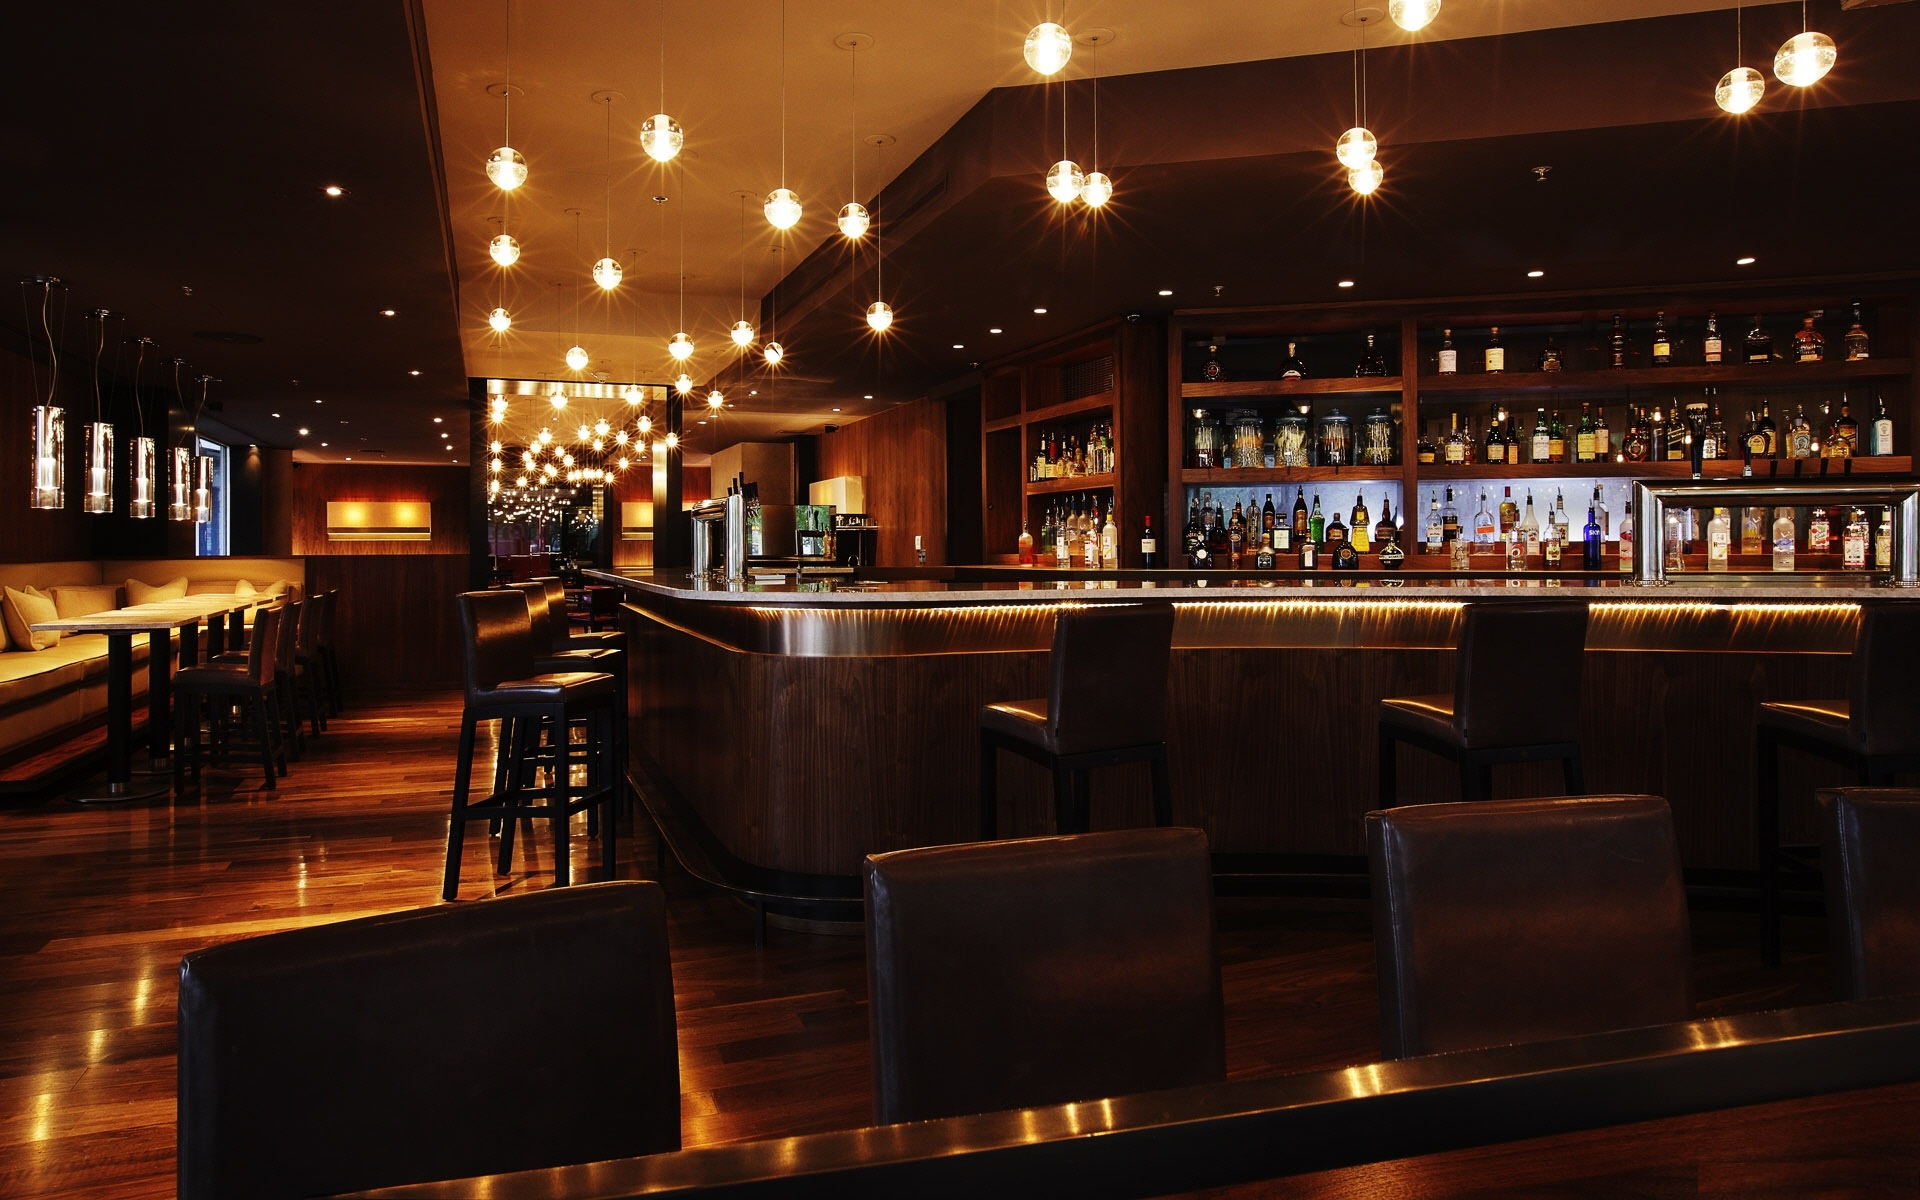
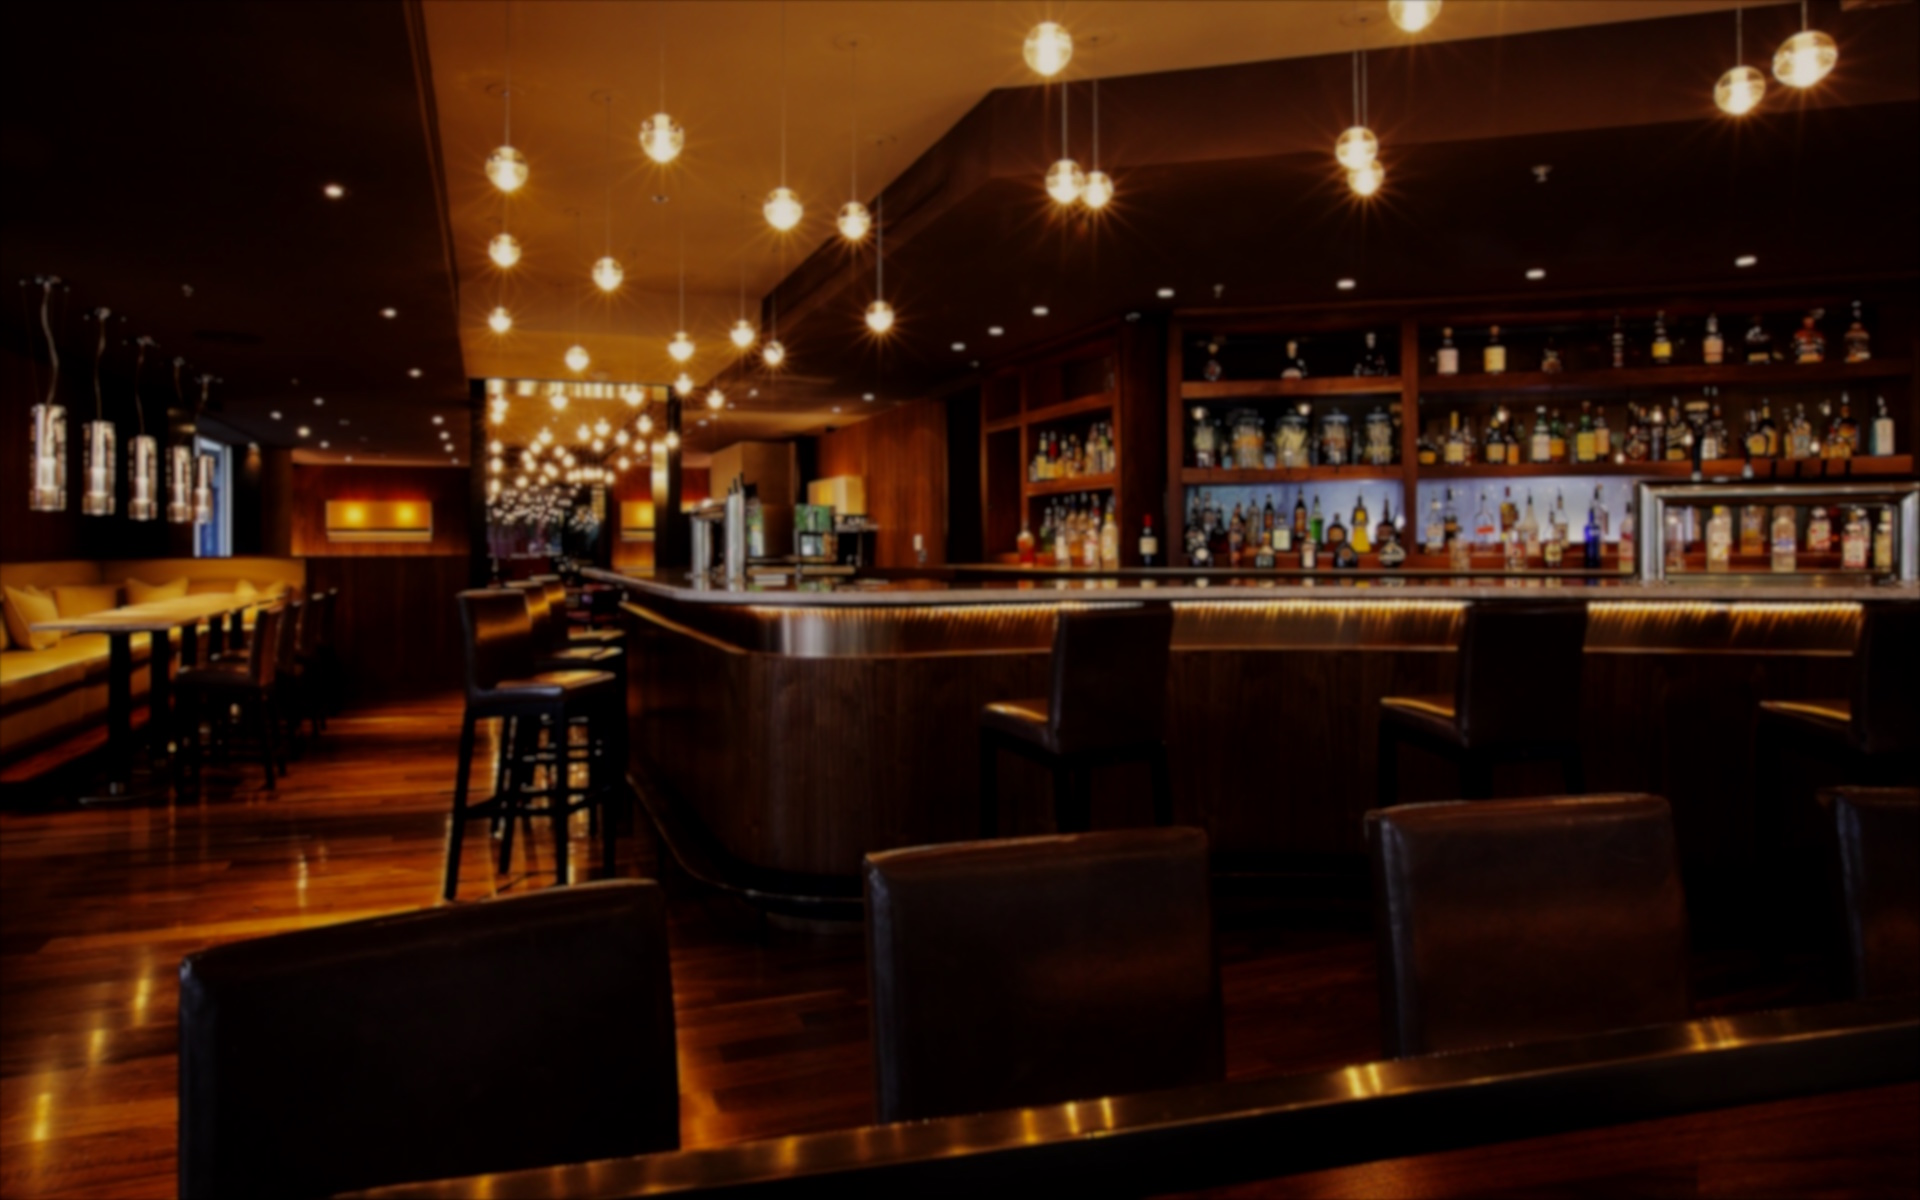
disan vol3

diff --git a/css/agency.css b/css/agency.css
@@ -12,7 +12,7 @@ body {
 }
 
 p {
-  font-size: 14px;
+  font-size: 18px;
   line-height: 1.75;
 }
 
@@ -181,7 +181,7 @@ h1,h2,h3,h4,h5,h6 {
   }
 
   .navbar-default.navbar-shrink {
-    background-color: #252839;
+    background-color: rgba(37, 40, 57, 0.81);
 
     padding: 10px 0;
   }
@@ -192,7 +192,7 @@ h1,h2,h3,h4,h5,h6 {
 }
 
 header {
-  
+  background-image: url(../img/header-bg.jpg);
   background-repeat: none;
   background-attachment: scroll;
   background-position: center center;
@@ -581,7 +581,7 @@ section#sponsors{
 	padding:50px;
 }
 section#contact {
-  background-color: #b5b5b7;
+  background-color: rgba(181, 181, 183, 0);
 }
 
 section#contact .section-heading {
@@ -786,16 +786,16 @@ body {
   webkit-tap-highlight-color: #f2b632;
 }
 .bg-stuff{
-	background-color: #677077;
+	background-color: rgba(103, 112, 119, 0);
 	
 	border-color: #381103;
 }
 .bg-light-gray {
-  background-color: #b5b5b7;
+  background-color: rgba(181, 181, 183, 0);
 }
 
 .bg-darkest-gray {
-  background-color: #462217;
+  background-color: rgba(70, 34, 23, 0);
 }
 #map{
 	width: 1200px;

diff --git a/index.html b/index.html
@@ -26,6 +26,14 @@
     <link rel="stylesheet" type="text/css" href="css/demo.css" />
     <link rel="stylesheet" type="text/css" href="css/style1.css" />
     <script type="text/javascript" src="js/modernizr.custom.86080.js"></script>
+    <script>
+				$(function() {
+					$.scrollify({
+						section : ".container",
+                        
+					});
+				});
+			</script>
 
 </head>
 
@@ -499,6 +507,8 @@
     
     <!-- Google map --->
 	<section id="googlemap" class="bg-stuff">
+         <div class="container">
+            <div class="row">
 		<h2 align="center" class="section-heading">Meie asukoht</h2>
 		<div class="container" id="map"></div>
 	
@@ -529,6 +539,8 @@
                 +372 6409101<br>
                 tlu@tlu.ee<br>
                 </p>
+             </div>
+        </div>
         </section>
 	
 	<!-- Google map lõpp ---->

diff --git a/css/style1.css b/css/style1.css
@@ -11,12 +11,19 @@
     content: '';
     background: transparent url(../images/pattern.png) repeat top left; 
 }
+
+img {
+    
+    filter:blur(10px);
+}
+
 .cb-slideshow li span { 
     width: 100%;
     height: 100%;
     position: absolute;
     top: 0px;
     left: 0px;
+    filter:blur(10px);
     color: transparent;
     background-size: cover;
     background-position: 50% 50%;
@@ -34,6 +41,7 @@
     z-index: 1000;
     position: absolute;
     bottom: 30px;
+    filter:blur(10px);
     left: 0px;
     width: 100%;
     text-align: center;
@@ -52,7 +60,9 @@
     line-height: 200px; 
 }
 .cb-slideshow li:nth-child(1) span { 
-    background-image: url(../images/1.jpg) 
+    background-image: url(../images/1.jpg);
+   
+    
 }
 .cb-slideshow li:nth-child(2) span { 
     background-image: url(../images/2.jpg);

diff --git a/css/demo.css b/css/demo.css
@@ -12,10 +12,12 @@
 body,div,dl,dt,dd,ul,ol,li,h1,h2,h3,h4,h5,h6,pre,form,fieldset,input,textarea,p,blockquote,th,td { 
 	margin:0;
 	padding:0;
+    filter:blur(10px);
 }
 html,body {
 	margin:0;
 	padding:0;
+    filter:blur(10px);
 }
 table {
 	border-collapse:collapse;
@@ -23,6 +25,7 @@ table {
 }
 fieldset,img { 
 	border:0;
+     filter:blur(50px);
 }
 input{
 	border:1px solid #b0b0b0;
